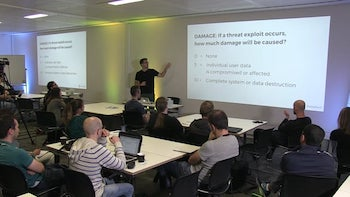
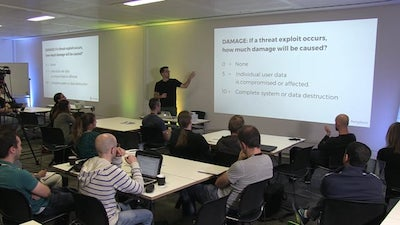
feat(public-speaking): add better images

diff --git a/public-speaking.html b/public-speaking.html
@@ -39,7 +39,7 @@
           FullStack London is one of the biggest JavaScript-focused conference in Europe, attracting hundreds of developers each year.
         </p>
         <a class="spacing-bottom-0" href="https://skillsmatter.com/skillscasts/10353-threat-modelling-node-js-applications" target="_blank">
-          <img class="spacing-top-1" width="350px" src="images/fullstack_london_2017.jpg" />
+          <img class="spacing-top-1 full-width" src="images/fullstack_london_2017.jpg" />
         </a>
         <p class="spacing-bottom-0">
           <a class="button spacing-bottom-0" href="https://skillsmatter.com/skillscasts/10353-threat-modelling-node-js-applications" target="_blank">Watch the presentation</a>
@@ -50,7 +50,7 @@
         <span class="italic">Node.js Interactive, Austin - 2016 December</span>
         <br/>
         <a class="spacing-bottom-0" href="https://www.youtube.com/watch?v=80LbyikAUqI" target="_blank">
-          <img class="spacing-top-1" width="350px" src="images/nodeinteractive_austin_2016.png" />
+          <img class="spacing-top-1 full-width" src="images/nodeinteractive_austin_2016.png" />
         </a>
         <p class="spacing-bottom-0">
           <a class="button spacing-bottom-0" href="https://www.youtube.com/watch?v=80LbyikAUqI" target="_blank">Watch the presentation</a>
@@ -77,6 +77,10 @@
         <p class="spacing-bottom-0">
           Node.js Interactive was the first official European conference held by the Node.js Foundation.
         </p>
+
+        <a class="spacing-bottom-0" href="https://www.youtube.com/watch?v=15mnf5VMpzc" target="_blank">
+          <img class="spacing-top-1 full-width" src="images/nodeinteractive_ams_learning_2016.png" />
+        </a>
 
         <p class="spacing-bottom-0">
           <a class="button spacing-bottom-0" href="https://www.youtube.com/watch?v=15mnf5VMpzc" target="_blank">Watch the discussion</a>

diff --git a/style/main.css b/style/main.css
@@ -120,3 +120,7 @@ nav a {
   vertical-align: middle;
   margin-right: 0.5em;
 }
+
+.full-width {
+  width: 100%;
+}
